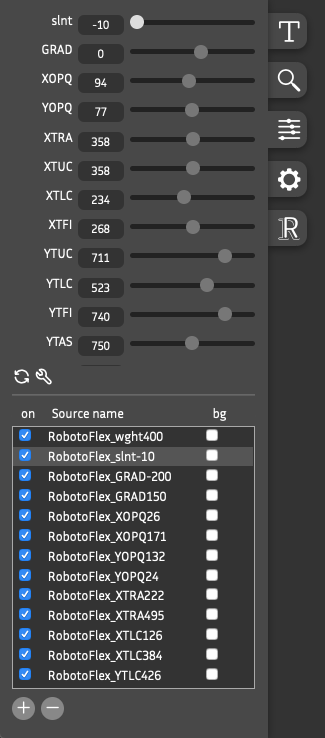
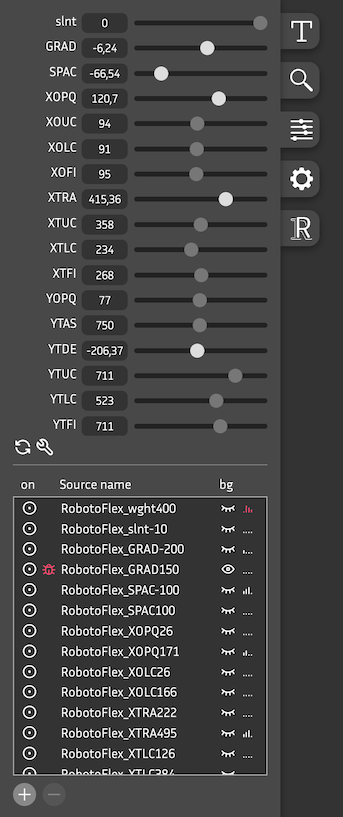
updating docs for designspace panel

Changed region(s): [[0.0308, 0.0, 0.9538, 1.0], [0.7077, 0.7168, 0.7385, 0.8103]]

diff --git a/_reference/panels/designspace.md b/_reference/panels/designspace.md
@@ -20,30 +20,44 @@ order     : 12
 ![]({{ site.url }}/images/panel-designspace.png){: .img-fluid .py-2 }
 </div>
 <div class='col-md' markdown='1'>
-variation axes
-: move the sliders to navigate around the font's designspace 
+##### variation axes
 
-restore defaults
-: click the recycle icon to restore all axes to their default location
+interactive controls for all variation axes in the designspace
 
-edit local axes
-: open a pop-up window with options to adjust local axes (?)
+sliders
+: move the knobs to navigate around the font's designspace 
+
+labels
+: slider values indicate the current location at that axis
+
+<img src='{{ site.url }}/images/icons/refresh.svg' /> restore defaults
+: click to restore all axes to their default location
+
+<img src='{{ site.url }}/images/icons/tool.svg' /> edit local axes
+: open a pop-up window to adjust local axes (?)
 
 - - -
 
-sources
-: a list of all sources available for the current glyph
+##### sources
 
-on
+a list of all sources available for the current glyph
+
+<img src='{{ site.url }}/images/icons/circle-dot.svg' /> on
 : uncheck to remove source from the interpolation for this glyph
 
-bg
-: check to show a preview of this source in the background
+<img src='{{ site.url }}/images/icons/bug.svg' /> bug
+: indicates that this source is incompatible for interpolation
 
-plus
+<img src='{{ site.url }}/images/icons/eye.svg' /> bg (background)
+: show/hide this source in the background while editing
+
+<img src='{{ site.url }}/images/icons/antenna-bars-4.svg' /> bars
+: displays the influence of this source in the current location
+
+<img src='{{ site.url }}/images/icons/plus.svg' height='20' /> plus
 : add a new source at a new location for the current glyph
 
-minus
+<img src='{{ site.url }}/images/icons/minus.svg' height='20' /> minus
 : delete current glyph in the selected source 
 </div>
 </div>
